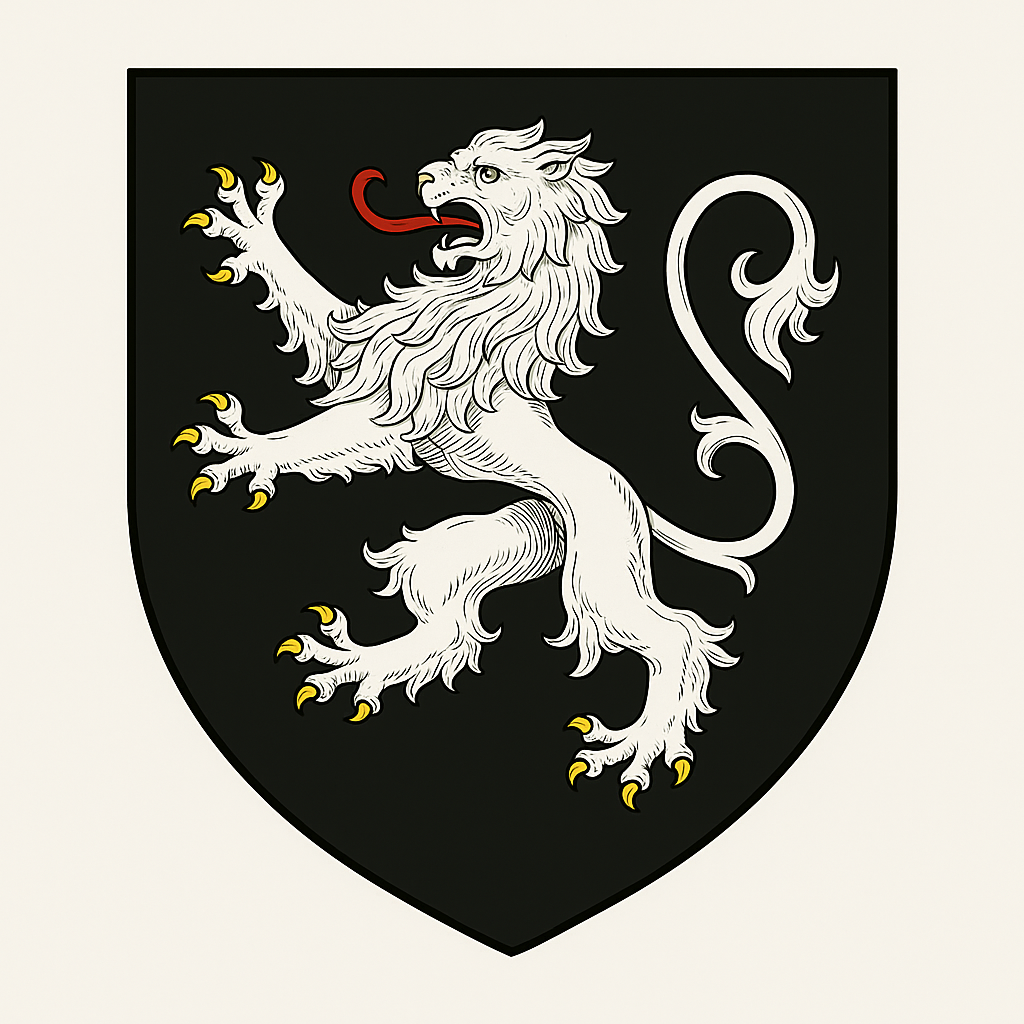
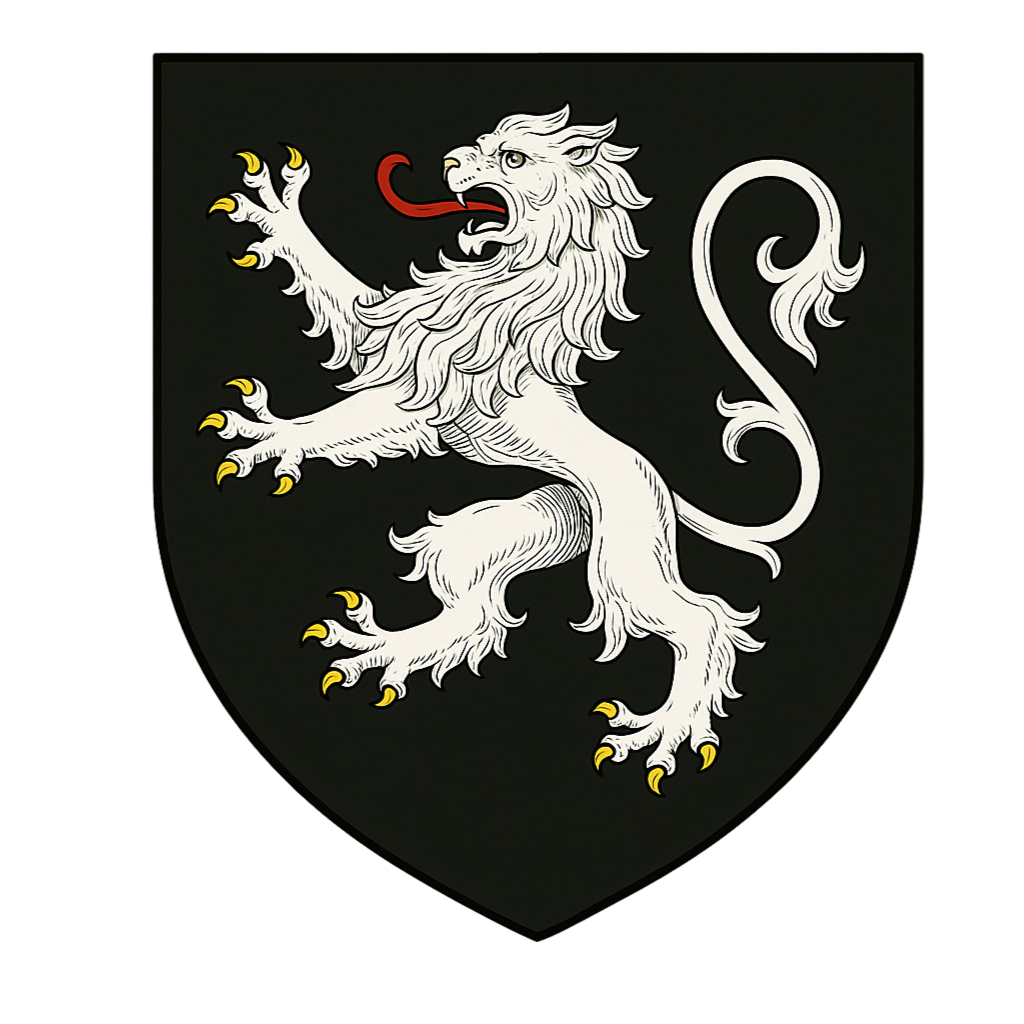
feat: remover background del escudo

diff --git a/README.md b/README.md
@@ -1,3 +1,3 @@
 # Bremontix
 
-![Bremontix](img/bremontix.png)
+![Bremontix](img/resized/bremontix_256x256.png)
